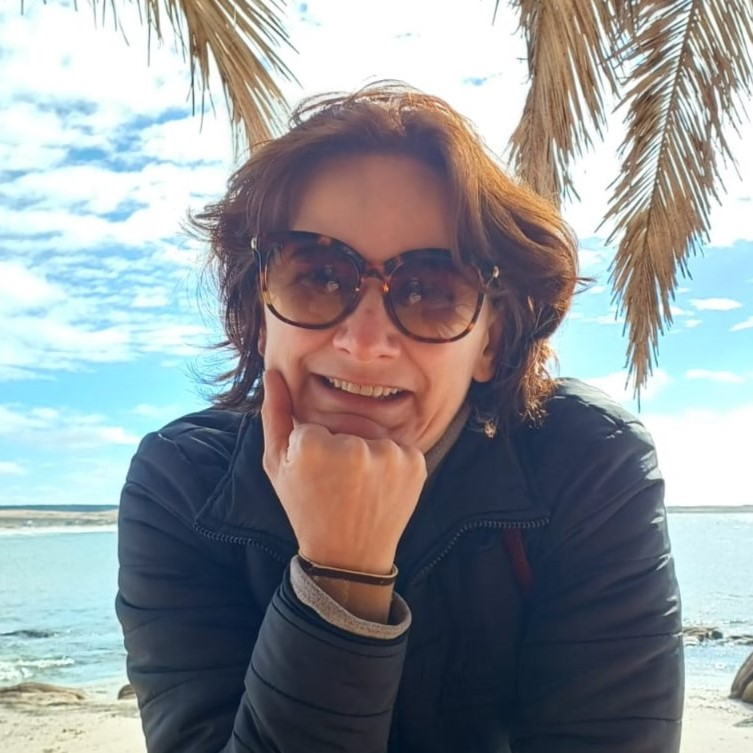
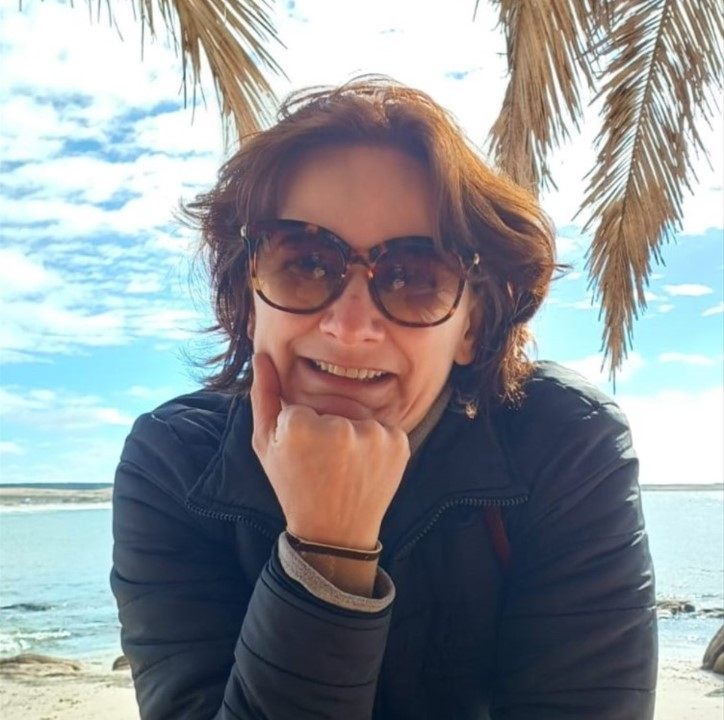
upd fotos jaque e gisele

diff --git a/script.js b/script.js
@@ -46,7 +46,7 @@ function show() {
     //OUTUBRO
     {nome: "Daisy Karin Silva Ferreira", dia: 6, mes: 9, ano: 1993, funcao: "Promotora de Matrículas", foto:"img/outubro/Daisy.jpeg", birth: new Date(1976, 2, 20)},
     {nome: "Larissa Cardoso de Franca Goncalves", dia: 6, mes: 9, ano: 1987, funcao: "Professora", foto:"img/outubro/Larissa.jpeg", birth: new Date(1976, 2, 20)},
-    {nome: "Gisele Cordeiro da Silva", dia: 9, mes: 9, ano: 1984, funcao: "Tutora", foto:"img/outubro/Gisele.png", birth: new Date(1976, 2, 20)},
+    {nome: "Gisele Cordeiro da Silva", dia: 9, mes: 9, ano: 1984, funcao: "Tutora", foto:"img/outubro/Gisele.jpg", birth: new Date(1976, 2, 20)},
     {nome: "Jaqueline Marcia Hoffmeister Senko", dia: 9, mes: 9, ano: 1980, funcao: "Coord. Pedagógica", foto:"img/outubro/Jaqueline.jpg", birth: new Date(1976, 2, 20)},
     {nome: "Joice Mari da Silva Pereira", dia: 10, mes: 9, ano: 1992, funcao: "Professora", foto:"img/outubro/Joice.jpg", birth: new Date(1976, 2, 20)},
     {nome: "Douglas Frohlich Reded", dia: 19, mes: 9, ano: 1992, funcao: "TI", foto:"img/outubro/douglasfrohlich.jpeg", birth: new Date(1976, 2, 20)},
